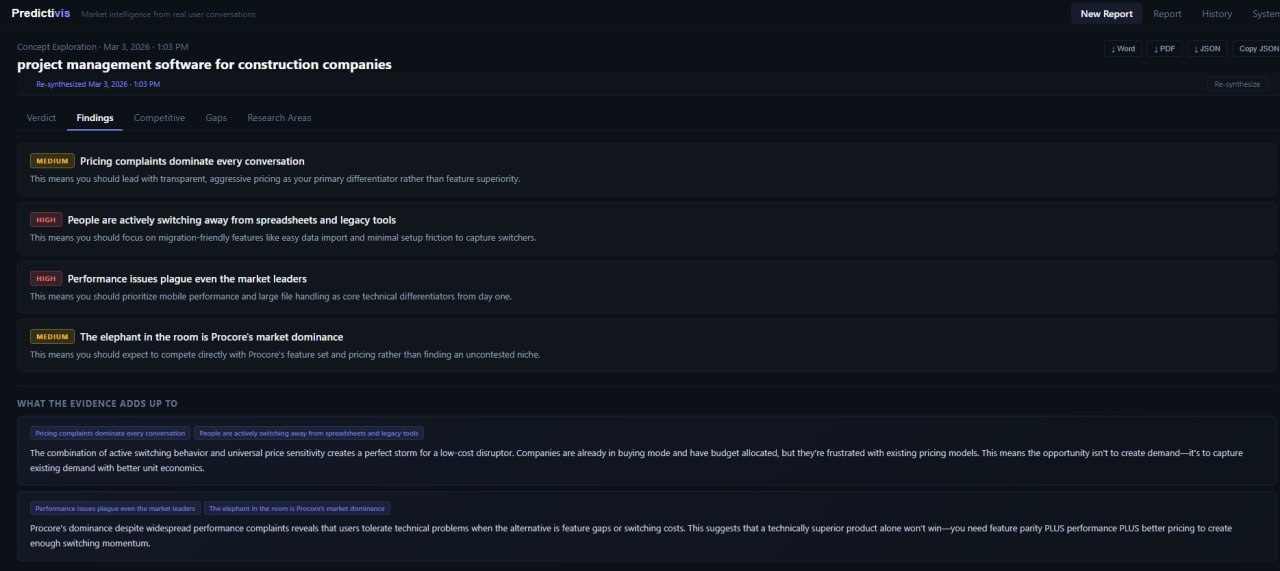
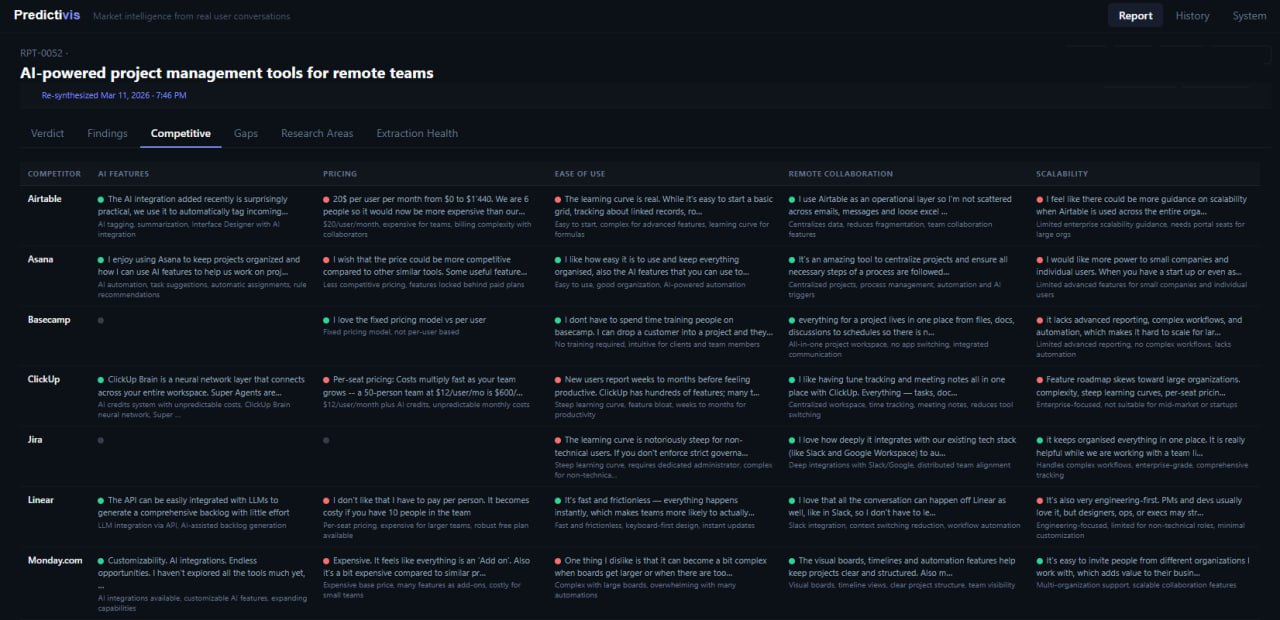
Replace findings screenshot with competitive/verdict/findings composite

diff --git a/index.html b/index.html
@@ -579,7 +579,7 @@
         </div>
 
         <div style="margin-top: 3rem; text-align: center;">
-            <img src="findings-screenshot.jpg" alt="Predictivis findings tab showing confidence-scored themes for project management software for construction companies" style="max-width: 100%; height: auto; border-radius: 16px; border: 1px solid var(--border);">
+            <img src="findings-screenshot.jpg" alt="Predictivis report showing competitive analysis, verdict, and findings for AI-powered project management tools for remote teams" style="max-width: 100%; height: auto; border-radius: 16px; border: 1px solid var(--border);">
         </div>
     </section>
 
